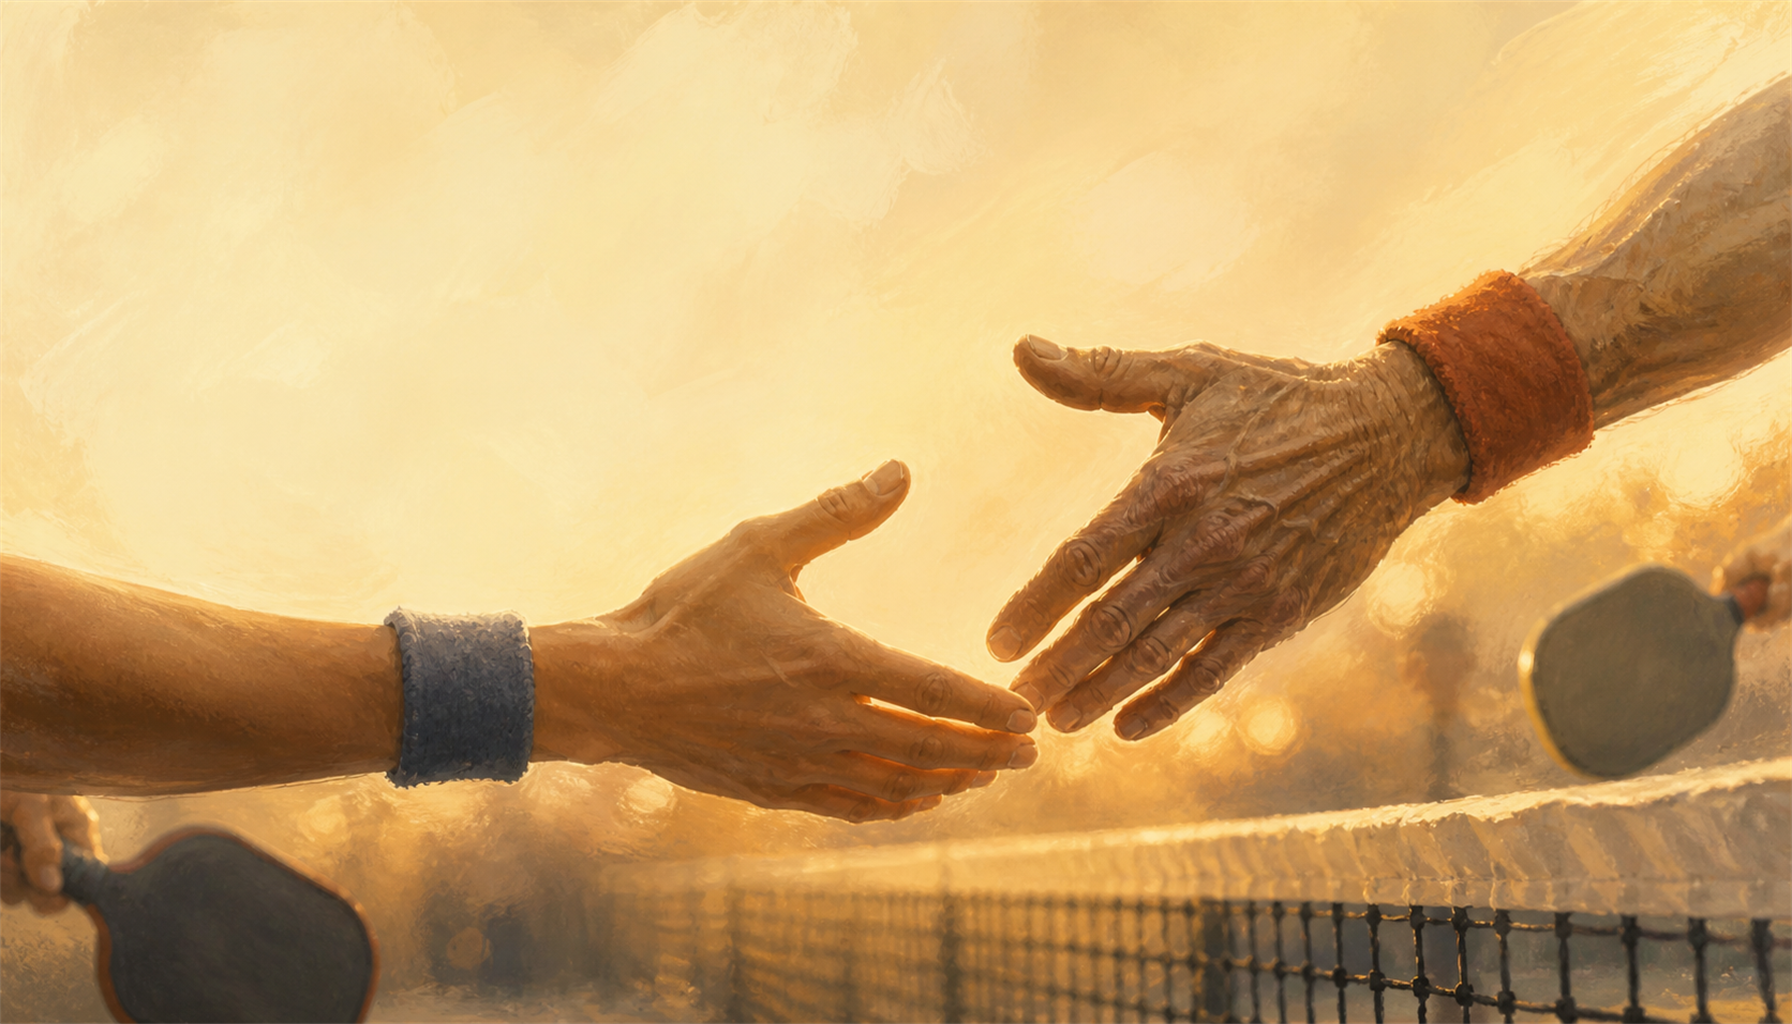
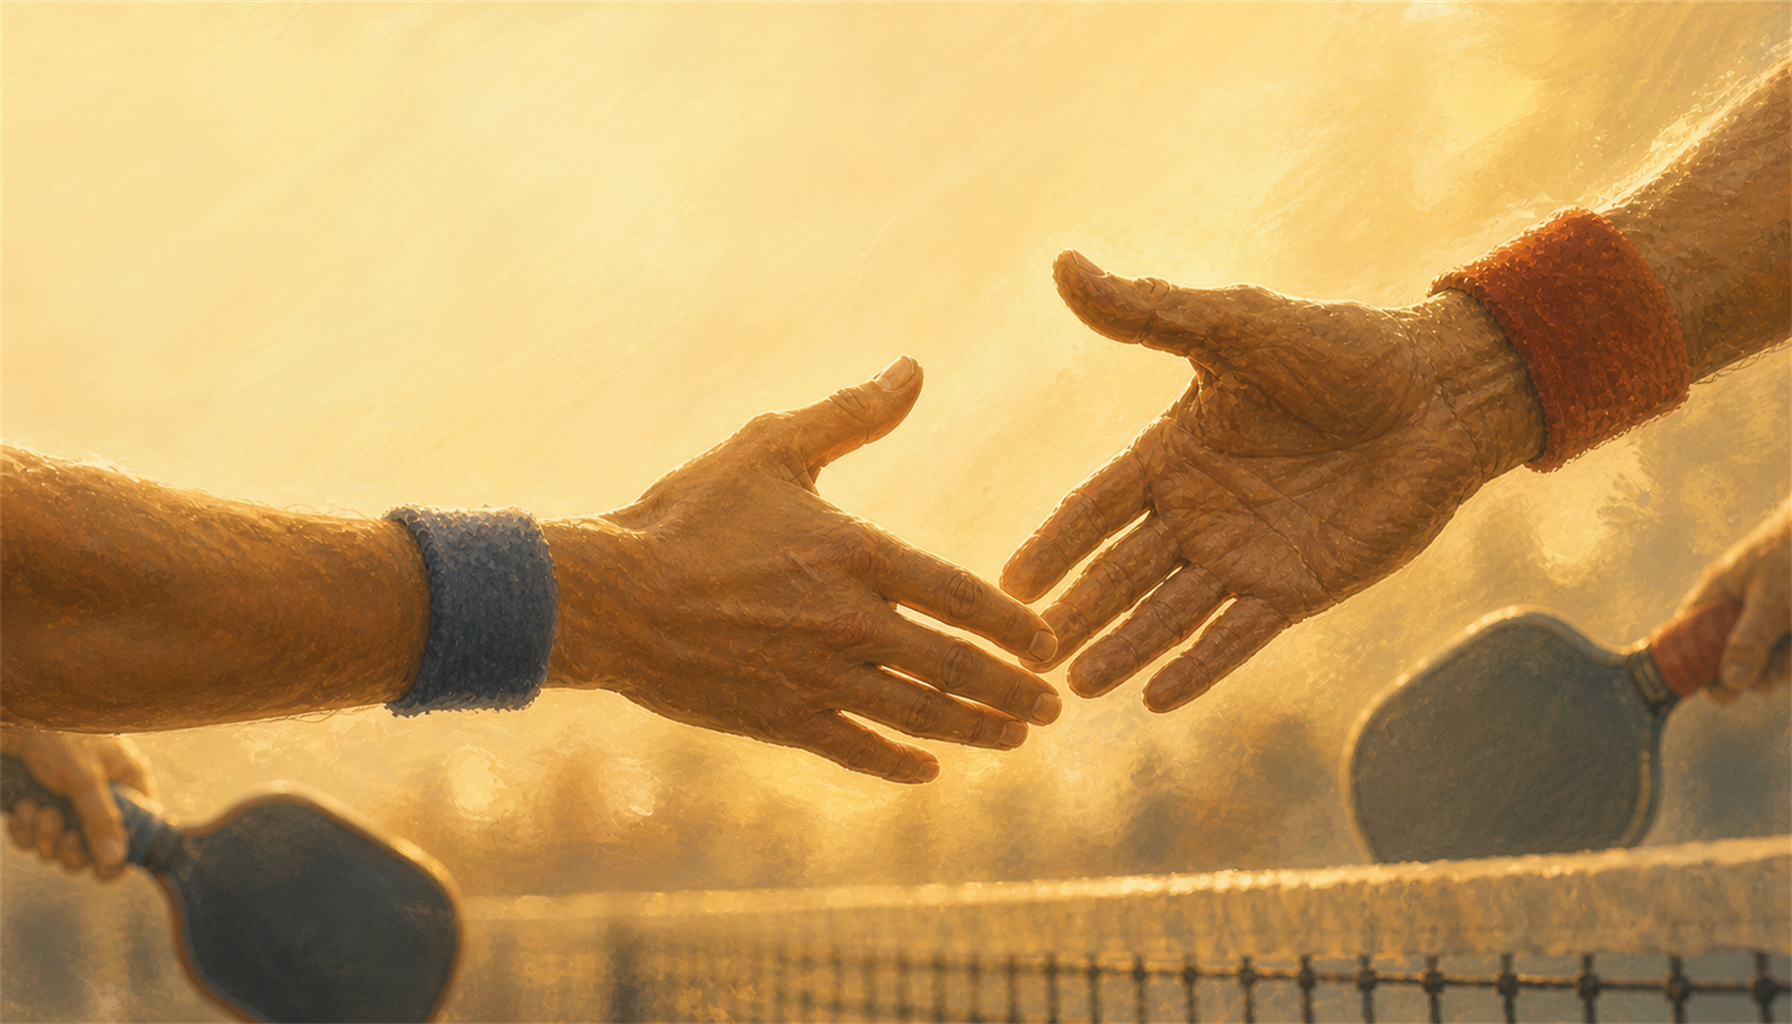
cs-frontier-iconic: hero v4 — full-bleed two-hand reach + design system rules locked

diff --git a/GnR_deck.html b/GnR_deck.html
@@ -6872,7 +6872,7 @@ window.cs1m5Reverse = function() {
   #cs-frontier-iconic { background:#f3ead8 !important; overflow:hidden; }
   #cs-frontier-iconic .fi-stage { position:absolute; inset:0; padding:0; }
   /* [Dave 2026-05-14 PM v4 b] Hero headline added per Dave 'this slide needs to have text. use: The #1 predictor of a fulfilling life: openly giving and receiving real connection.' Sits above the curve so the eye reads the claim, then the curve + icons land the proof of demand. */
-  #cs-frontier-iconic .fi-headline { position:absolute; top:8%; left:6%; z-index:3; font-family:'Fraunces','Playfair Display',Georgia,serif; font-size:clamp(1.85rem,3.25vw,3rem); font-weight:800; line-height:1.14; letter-spacing:-0.022em; color:#1a1612; text-align:left; max-width:690px; margin:0; opacity:0; transform:translateY(8px); text-shadow:0 1px 2px rgba(0,0,0,0.15); }
+  #cs-frontier-iconic .fi-headline { position:absolute; top:8%; left:6%; z-index:3; font-family:'Fraunces','Playfair Display',Georgia,serif; font-size:clamp(1.85rem,3.25vw,3rem); font-weight:800; line-height:1.14; letter-spacing:-0.022em; color:#1a1612; text-align:left; max-width:690px; margin:0; opacity:0; transform:translateY(8px); text-shadow:0 1px 3px rgba(0,0,0,0.18); }
   #cs-frontier-iconic .fi-headline .fi-predictor { font-style:italic; font-weight:850; color:#b8954a; }
   #cs-frontier-iconic .fi-headline .fi-give { color:#5B8FD4; font-weight:850; }
   #cs-frontier-iconic .fi-headline .fi-receive { color:#c8462c; font-weight:850; }

diff --git a/index.html b/index.html
@@ -6872,7 +6872,7 @@ window.cs1m5Reverse = function() {
   #cs-frontier-iconic { background:#f3ead8 !important; overflow:hidden; }
   #cs-frontier-iconic .fi-stage { position:absolute; inset:0; padding:0; }
   /* [Dave 2026-05-14 PM v4 b] Hero headline added per Dave 'this slide needs to have text. use: The #1 predictor of a fulfilling life: openly giving and receiving real connection.' Sits above the curve so the eye reads the claim, then the curve + icons land the proof of demand. */
-  #cs-frontier-iconic .fi-headline { position:absolute; top:8%; left:6%; z-index:3; font-family:'Fraunces','Playfair Display',Georgia,serif; font-size:clamp(1.85rem,3.25vw,3rem); font-weight:800; line-height:1.14; letter-spacing:-0.022em; color:#1a1612; text-align:left; max-width:690px; margin:0; opacity:0; transform:translateY(8px); text-shadow:0 1px 2px rgba(0,0,0,0.15); }
+  #cs-frontier-iconic .fi-headline { position:absolute; top:8%; left:6%; z-index:3; font-family:'Fraunces','Playfair Display',Georgia,serif; font-size:clamp(1.85rem,3.25vw,3rem); font-weight:800; line-height:1.14; letter-spacing:-0.022em; color:#1a1612; text-align:left; max-width:690px; margin:0; opacity:0; transform:translateY(8px); text-shadow:0 1px 3px rgba(0,0,0,0.18); }
   #cs-frontier-iconic .fi-headline .fi-predictor { font-style:italic; font-weight:850; color:#b8954a; }
   #cs-frontier-iconic .fi-headline .fi-give { color:#5B8FD4; font-weight:850; }
   #cs-frontier-iconic .fi-headline .fi-receive { color:#c8462c; font-weight:850; }

diff --git a/LEARNINGS.md b/LEARNINGS.md
@@ -1,0 +1,76 @@
+# Pitch Visual Learnings
+
+## ACTIVE
+
+### STANDING - every rejection becomes a rule
+
+Every Dave rejection of a generated image or layout = new active rule. When Dave says "awful," "bad," "I don't like this," or rejects without elaborating, infer the underlying aesthetic principle that was violated, propose a candidate rule, and write it into `LEARNINGS.md`. Surface the new rule back to Dave in plain language so he can confirm or refine. Never let a rejection pass without a written rule.
+
+### Opener and hero slides require ICONIC register, not LITERAL depiction
+
+The headline states a claim; the image must embody that claim at mythic scale, not illustrate it. Example: headline "the #1 predictor of a fulfilling life" -> wrong response is "two people connecting." Right response is a single specific gesture that operates as a flag-plant. Before generating any hero image, ask: "what is the tattoo version of this idea, not the brochure version?"
+
+### STANDING - full-bleed imagery for big-moment slides
+
+Hero, opener, mission, transition, and big-moment slides use FULL-BLEED imagery. The image fills the slide edge to edge. Type overlays directly on a deliberate quiet zone inside the painting. No image-in-a-box. No cream margins around an embedded image. The painting IS the slide.
+
+### STANDING - hero image aesthetic
+
+Aesthetic for hero slides: warm editorial brush-and-wash painting (Andrew Wyeth x Adrian Tomine), cream-gold-rust-muted-blue palette, NEVER green, painterly soft edges, mythic register.
+
+### STANDING - keep structured slides typographic
+
+Charts, comparisons, data tables, and spec slides keep the existing clean editorial typographic treatment. Do NOT painterify them.
+
+### STANDING - hero subject is one mythic gesture
+
+Hero subject = ONE mythic gesture or moment, not a wide establishing shot. Ambiguous-but-specific. The viewer should feel the gesture before they understand what it is.
+
+### STANDING - permanent banned aesthetics across hero imagery
+
+Permanent banned aesthetics across all hero imagery: two-people-on-porch / Hallmark / memoir / senior-living-brochure register, Mediterranean / villa / terra cotta / olive, Anthropologie catalog vibe, sunset-as-melancholy, photorealism, digital-flat illustration, cartoon, stock "diversity poster" staging, paddle-cluster or four-paddle-flower compositions, paddle-only product shots, faces / eyes / smiles in mythic close-ups.
+
+### Suburban American anchor is non-negotiable for community/wedge imagery
+
+No Mediterranean, no villa, no European architecture, no terra cotta, no olive trees, no cosmopolitan-cafe register. GnR's wedge is suburban American pickleball clubs. Every hero image should be unmistakably set there or in a register compatible with it.
+
+### Headline-image tension rule
+
+If the headline makes a civilizational or existential claim, such as "fulfilling life," "next great network," or "predictor," the image must match that scale. A small, intimate, two-person composition under a civilizational headline reads as scarcity and undercuts the argument. Match the scale of the claim.
+
+## SUPERSEDED
+
+### SUPERSEDED 2026-05-14 - BANNED aesthetics for hero images - permanent
+
+- Hallmark-card / memoir-cover / senior-living-brochure register.
+- Two-people-talking compositions, any age, any setting.
+- Sunset-as-melancholy or sunset-as-ending.
+- Anthropologie catalog / wellness-brand vibe.
+- Stock-photo "diversity poster" staging.
+- Generic "people connecting" framing.
+
+Superseded by the broader permanent banned-aesthetics rule that also bans photorealism, digital-flat illustration, cartoon, Mediterranean/villa/terra cotta/olive aesthetics, paddle clusters, paddle-only product shots, and faces/eyes/smiles in mythic close-ups.
+
+### SUPERSEDED 2026-05-14 - One specific non-equipment gesture beats a wide establishing shot
+
+A close-up of one mythic human moment, such as a hand reaching across a threshold, a porch light turning on, or a single welcoming wave, is stronger than a wide "see the whole community" frame for any opener or hero slide. The gesture must be emotionally iconic without reducing GnR to pickleball equipment. Save wide shots for context slides, not flag-plant slides.
+
+Superseded by the one-mythic-gesture rule. Equipment may appear only as secondary context when Dave explicitly calls for it; the subject remains the human gesture.
+
+### SUPERSEDED 2026-05-14 - Pickleball equipment is not opener-hero imagery
+
+Pickleball is the wedge and proof environment, not the opening metaphor unless Dave explicitly asks for a pickleball-specific slide. Do not use paddles, balls, nets, court lines, or paddle taps as the primary opener/hero image for civilizational claims like "fulfilling life" or "next great network." Those artifacts make the company feel like a club-sports product instead of a human-connection network.
+
+Superseded because the corrected opener permits pickleball equipment as soft-focus secondary context when the hands/gesture carry the mythic human-connection meaning.
+
+### SUPERSEDED 2026-05-14 - Hero and opener slides must use FULL-BLEED imagery
+
+Hero and opener slides must use FULL-BLEED imagery, not embedded-with-margins. The image fills the slide edge to edge; title and subtitles overlay directly on a deliberately quiet zone within the painting. Cream margins around an embedded image reads as wellness-magazine, not Khosla-tier pitch deck. The painting IS the slide, and the painting must be composed with the title location in mind.
+
+Superseded by the broader full-bleed rule covering hero, opener, mission, transition, and big-moment slides.
+
+### SUPERSEDED 2026-05-14 - One specific gesture beats a wide establishing shot
+
+A close-up of one mythic moment, such as a paddle tap, a hand reaching across, or a single welcoming wave, is stronger than a wide "see the whole community" frame for any opener or hero slide. Save wide shots for context slides, not flag-plant slides.
+
+Superseded because Dave rejected the paddle image. The corrected rule preserves specific-gesture thinking but bans literal pickleball equipment as opener/hero metaphor unless explicitly requested.